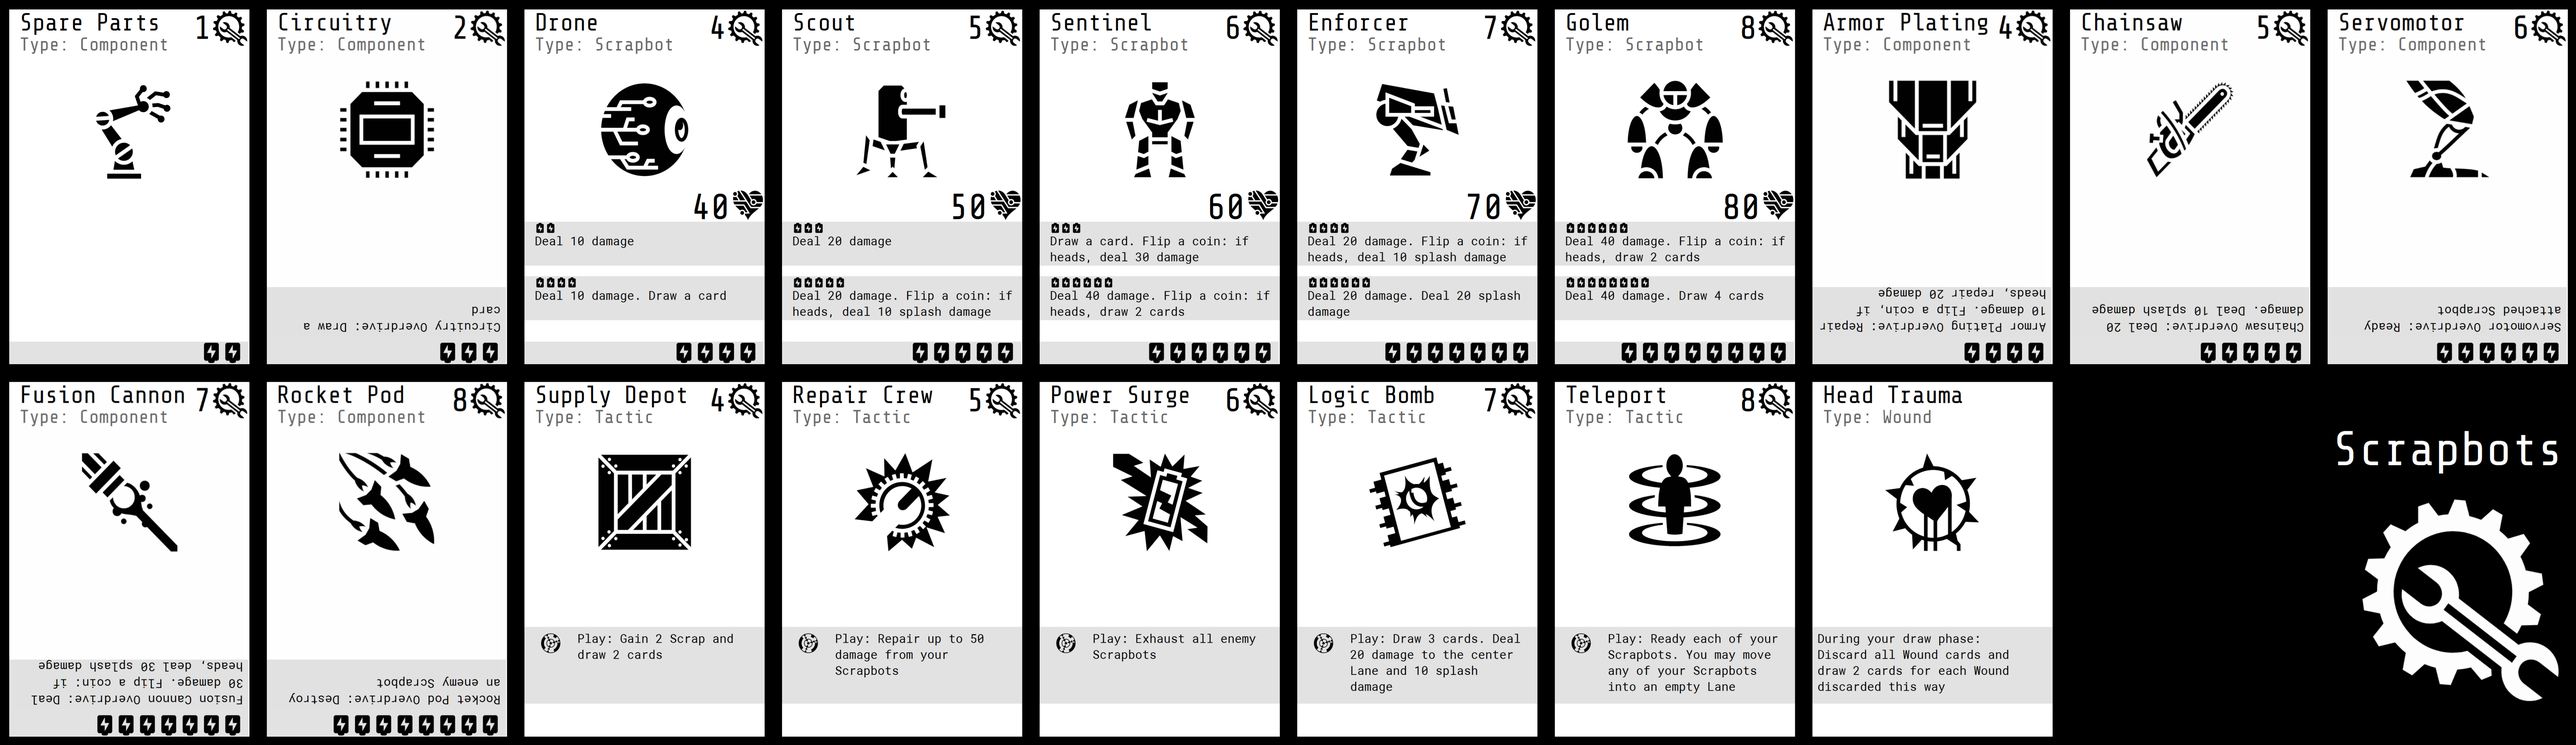
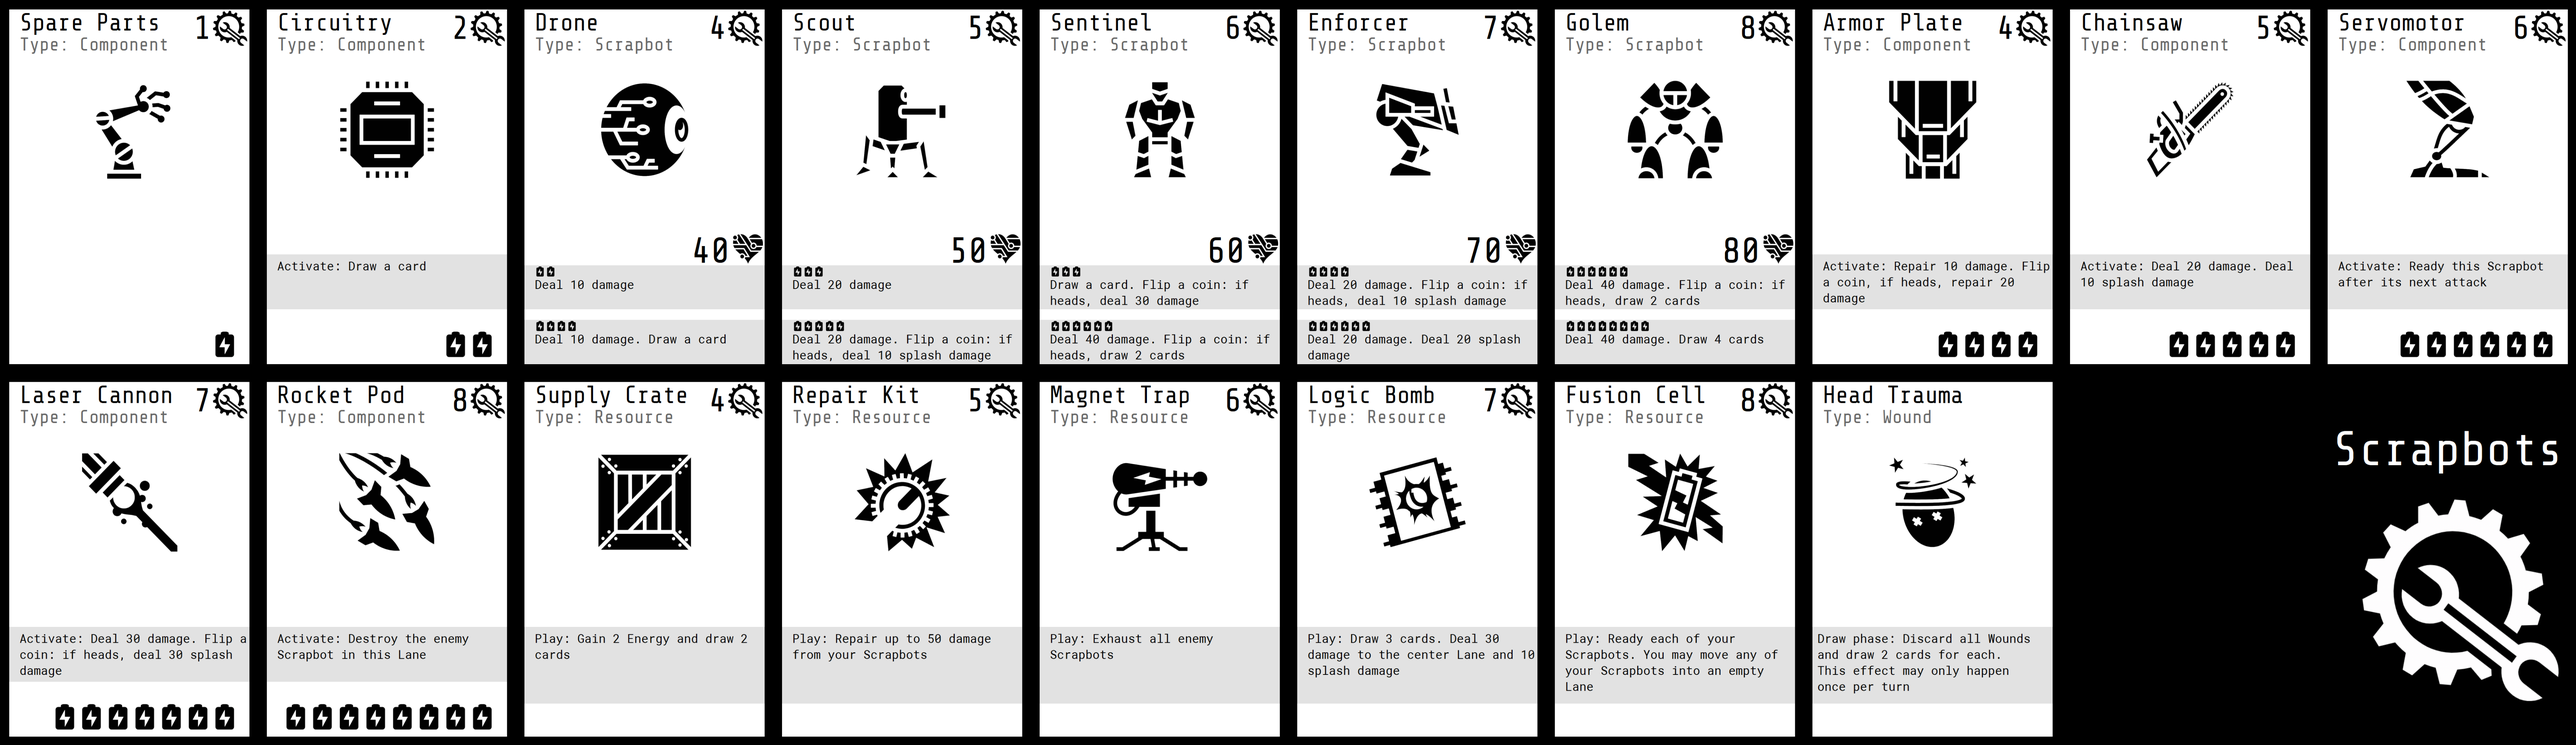
2.2

diff --git a/README.md b/README.md
@@ -20,7 +20,7 @@ The objective of the game is to defeat the opposing Mechanic. You will achieve t
 
 ### Setup
 
-Each player starts with an initial personal deck consisting of 4 Spare Parts and 4 Circuitry. All remaining cards are shuffled and become the center deck. 3 empty spaces in front of each player represent the Lanes which Scrapbots will be built in. Deal 5 cards from the center deck face-up on the side as the Market. Draw starting hands, the player going first may only draw three cards for the starting hand. The player going second draws five.
+Each player starts with an initial personal deck consisting of 4 Spare Parts and 4 Circuitry. All remaining cards are shuffled and become the center deck. 3 empty spaces in front of each player represent the Lanes which Scrapbots will be built in. Deal 5 cards from the center deck face-up on the side as the Market. Each player shuffles their deck and draws a starting hand, the player going first may only draw three cards for the starting hand. The player going second draws five.
 
 ### Turn Phases
 
@@ -36,28 +36,31 @@ Each turn, the following phases occur:
 
 **Cleanup Phase**
 
-- unused Scrap is removed
+- unused Scrap and Energy is removed from your pool
 - Ready (flip face-up) any Exhausted (flipped face-down) Scrapbots in your Lanes
 
 **Draw Phase**
 
 - draw a hand of 5 cards. If at any point in the game you need to draw a card but are unable to because your deck is empty, shuffle your discard pile and it becomes your deck.
-- If you have any Wounds in your hand, discard all of them. Draw 2 cards for each Wound discarded this way. 
+- If you have any Wounds in your hand, discard all of them. Draw 2 cards for each Wound discarded this way.
 
 ### Actions
 
 You may perform the following actions any number of times during your Main Phase:
 
 - Gain Scrap
+- Gain Energy
 - Buy cards from the Market
 - Build a Scrapbot
-- Install Energy
-- Activate Overdrive
+- Activate a Component
 - Play Tactics
 - Attack with a Scrapbot
 
 **Gain Scrap**
-Discard a card from your hand to add its Scrap value to your pool. 
+Discard a card from your hand to add its Scrap value to your pool.
+
+**Gain Energy**
+Discard a Component card from your hand to add its Energy value to your pool.
 
 **Buy cards from the Market**
 Remove Scrap from your pool equal to the value of a card in the Market and add that card to your discard pile. Whenever a card is removed from the Market, deal a new card to the Market from the center deck.
@@ -65,28 +68,28 @@ Remove Scrap from your pool equal to the value of a card in the Market and add t
 **Build a Scrapbot**
 Play a Scrapbot from your hand into an empty Lane. Scrapbots cannot be moved or replaced once they have been built. Scrapbots remain in play until destroyed. Scrapbots enter play Exhausted (flipped face-down).
 
-**Install Energy**
-Attach a card with Energy from your hand onto a Scrapbot to install Energy. It should be rotated so that the Energy symbols and Overdrive abilities are face-up and placed beneath the Scrapbot so that all installed Energy is visible at the top of the Scrapbot. When played as Energy, that card will remain attached to the Scrapbot it was installed on until that Scrapbot is destroyed.
+**Activate a Component**
+Choose one of your Ready Scrapbots to activate the Component. Play a Component card from your hand and follow the card text then put that card into your discard pile.
 
-**Activate Overdrive**
-Remove an installed Component from one of your Scrapbots to activate it's Overdrive effect. Follow the card text then put that card in your discard pile.
+You may not activate a component if you do not have a Ready Scrapbot in play.
 
-You may only activate the Overdrive effect of a Component that has been attached to a Scrapbot since the start of your turn.
-
-**Play Tactics**
-Play a Tactics card from your hand and follow the card text then put that card into your discard pile.
+**Play Resources**
+Play a Resource card from your hand and follow the card text then put that card into your discard pile.
 
 **Attack with a Scrapbot**
 Only Scrapbots that are Ready (flipped face-up) may attack.
 
 Exhaust (flip face-down) a Scrapbot to indicate that it has used an attack.
 
-You may choose to attack with any Scrapbot ability that has an Energy cost less than or equal to the amount of Energy installed on that Scrapbot.
+You must choose to attack with a Scrapbot ability that has an Energy cost less than or equal to the amount of Energy currently in your pool.
 
 Add damage counters to the opposing Scrapbot equal to the amount of damage dealt.
 
+*Dealing Splash Damage*
+Splash damage is dealt to Lanes that are adjacent to the source of damage.
+
 *Destroying Scrapbots*
-If the damage dealt after an attack would equal or exceed the amount of Health that the opposing Scrapbot has, that Scrapbot is destroyed. Place the destroyed Scrapbot and all attached cards in its owner's discard pile.
+If the damage dealt after an attack would equal or exceed the amount of Health that the opposing Scrapbot has, that Scrapbot is destroyed. Place the destroyed Scrapbot in its owner's discard pile.
 
 *Dealing Wounds*
 If there is no Scrapbot in an attacked Lane then the opposing player is dealt a Wound for each 10 points of undefended damage. Wounds are placed in your opponents discard pile.
@@ -94,7 +97,7 @@ If there is no Scrapbot in an attacked Lane then the opposing player is dealt a 
 
 ### Winning the Game
 
-The game ends when the last Wound has been dealt. Each player adds up all Wounds in their hands, decks, and discard piles. The player with the least Wounds is the winner!
+The game ends when the last Wound has been dealt. Each player adds up all Wounds in their hand, deck, and discard pile. The player with the least Wounds is the winner!
 
 ### Terms
 market: the row of cards currently available for purchase
